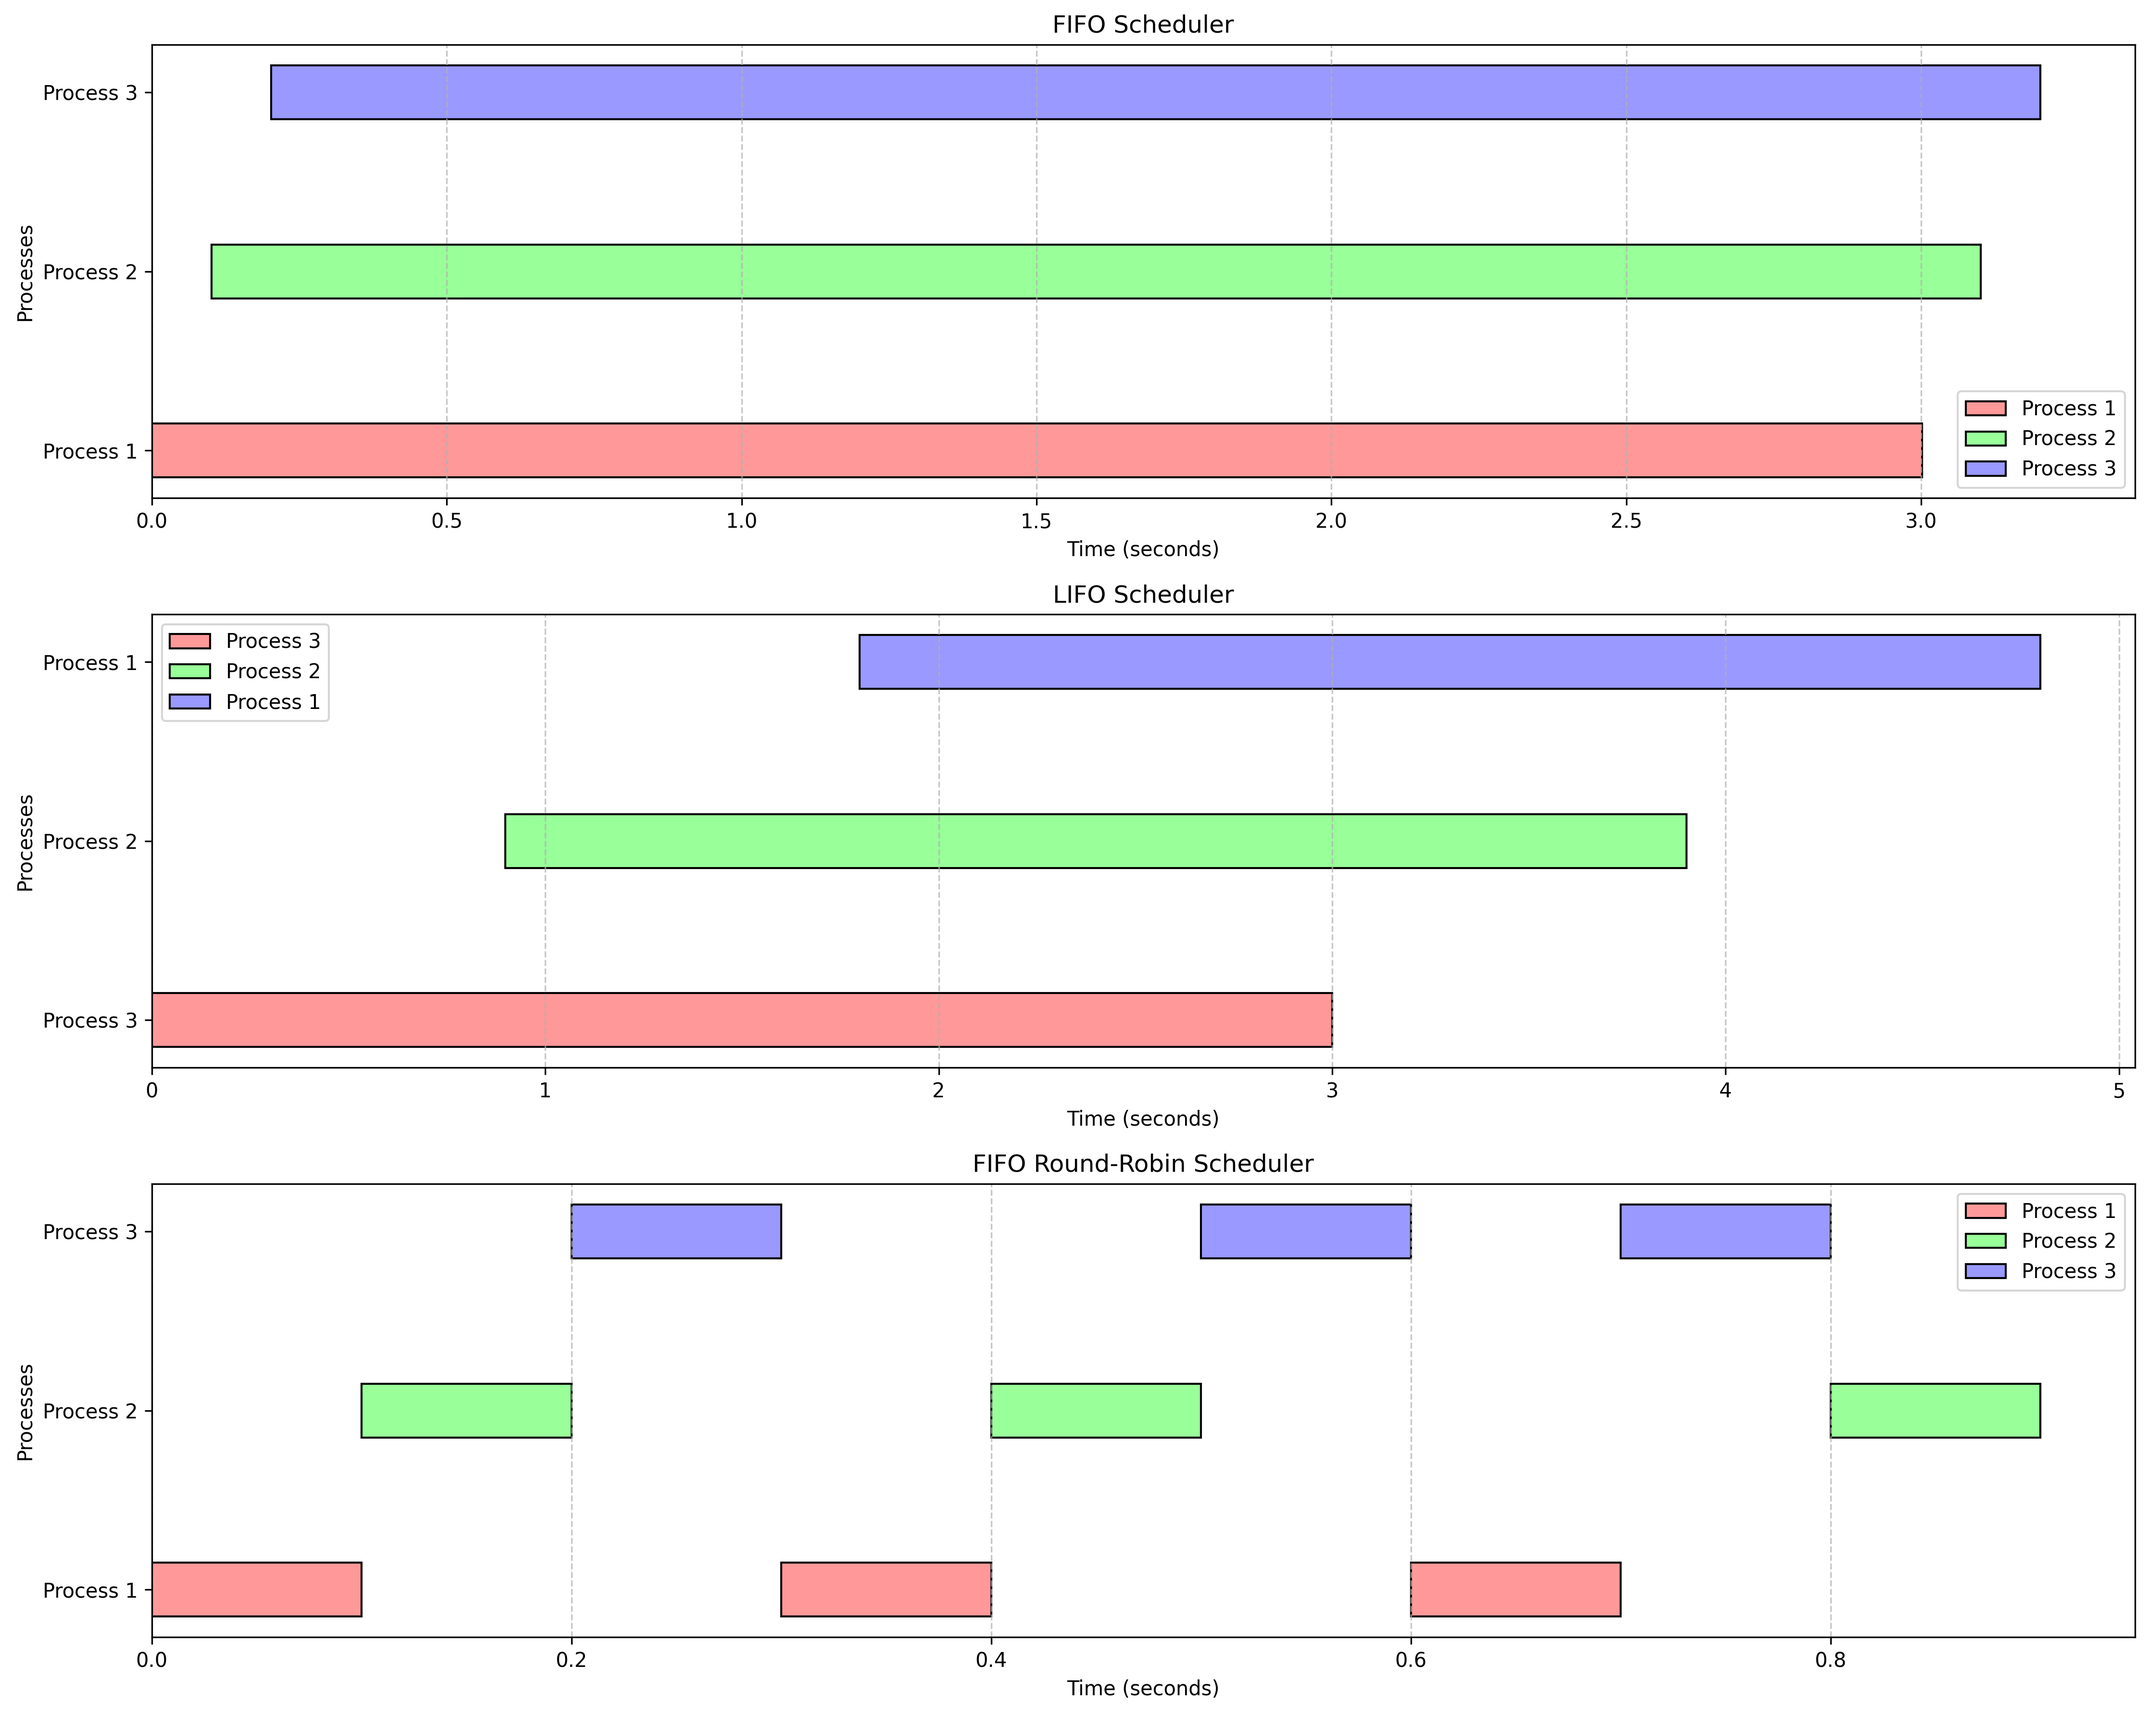
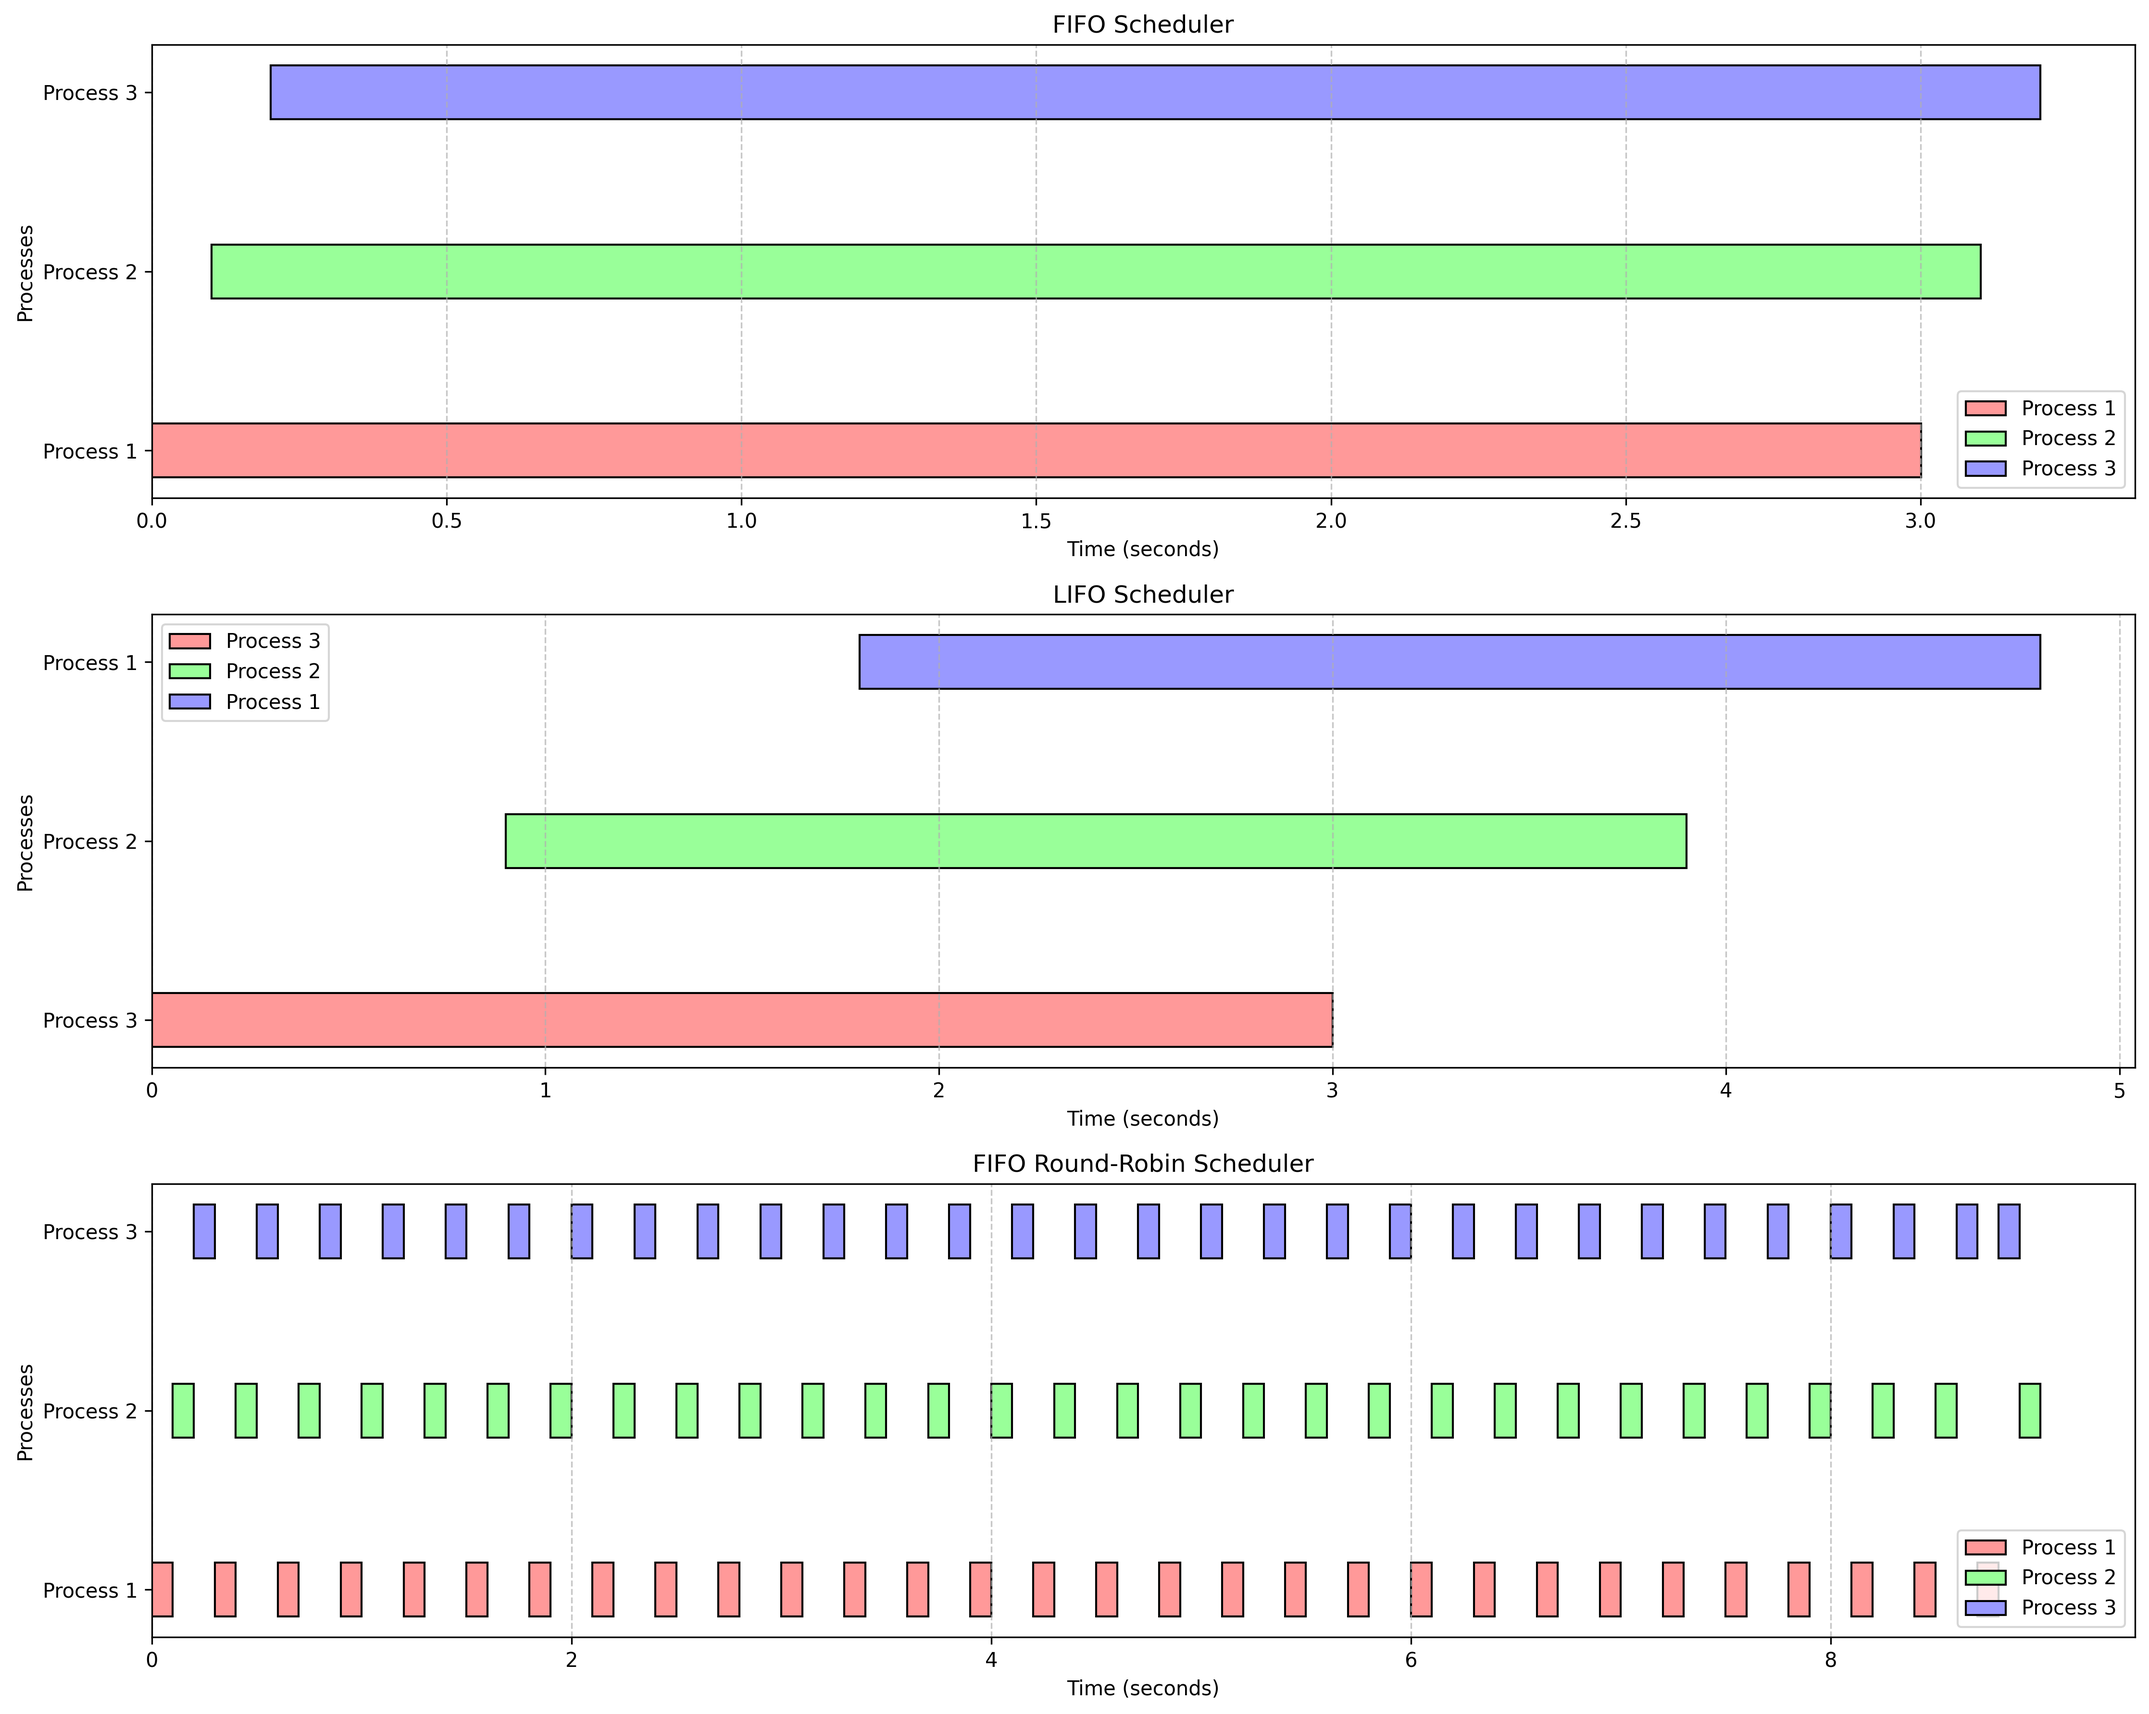
updated roundrobin code with latest results

diff --git a/fifo_rr_scheduler.c b/fifo_rr_scheduler.c
@@ -6,7 +6,7 @@
 #include <sys/wait.h>
 #include <sys/time.h>
 
-#define TIME_QUANTUM 100 // Time quantum in milliseconds
+#define TIME_QUANTUM 100  // Time quantum in milliseconds
 #define MAX_PROCESSES 10
 
 typedef struct {
@@ -19,39 +19,45 @@ int process_count = 0;
 int current_process = 0;
 struct itimerval timer;
 
-// Signal handler for timer
+// Signal handler for the timer
 void timer_handler(int signum) {
     if (process_count == 0) return;
 
-    // Reduce the remaining time of the current process
+    // Reduce remaining time of the current process
     process_queue[current_process].remaining_time -= TIME_QUANTUM;
 
-    // If process still has remaining time, move to the next process
     if (process_queue[current_process].remaining_time > 0) {
+        // Pause the current process
         if (kill(process_queue[current_process].pid, SIGSTOP) == 0) {
             printf("Process %d (PID=%d) paused, remaining time: %d ms\n", 
                 current_process + 1, process_queue[current_process].pid, 
                 process_queue[current_process].remaining_time);
         }
     } else {
-        // Process completed, remove it from queue
+        // Process completed
         printf("Process %d (PID=%d) finished execution.\n", 
             current_process + 1, process_queue[current_process].pid);
         kill(process_queue[current_process].pid, SIGKILL);
-        
-        // Shift remaining processes forward in queue
+        waitpid(process_queue[current_process].pid, NULL, 0);
+
+        // Shift remaining processes in the queue
         for (int i = current_process; i < process_count - 1; i++) {
             process_queue[i] = process_queue[i + 1];
         }
         process_count--;
-        
-        // If no processes left, stop the timer
+
+        // If all processes finished, stop the timer
         if (process_count == 0) {
             printf("All processes completed.\n");
             timer.it_value.tv_sec = 0;
             timer.it_value.tv_usec = 0;
             setitimer(ITIMER_REAL, &timer, NULL);
             return;
+        }
+
+        // Adjust index to avoid out-of-bounds access
+        if (current_process >= process_count) {
+            current_process = 0;
         }
     }
 
@@ -66,10 +72,14 @@ void timer_handler(int signum) {
     }
 }
 
-// Function to set up Round-Robin timer
+// Function to set up the Round-Robin timer
 void setup_timer() {
-    signal(SIGALRM, timer_handler);
-    
+    struct sigaction sa;
+    sa.sa_handler = timer_handler;
+    sigemptyset(&sa.sa_mask);
+    sa.sa_flags = SA_RESTART;
+    sigaction(SIGALRM, &sa, NULL);
+
     timer.it_value.tv_sec = 0;
     timer.it_value.tv_usec = TIME_QUANTUM * 1000;
     timer.it_interval.tv_sec = 0;
@@ -78,7 +88,7 @@ void setup_timer() {
     setitimer(ITIMER_REAL, &timer, NULL);
 }
 
-int main(int argc, char *argv[]) {
+int main() {
     printf("Starting FIFO Round-Robin Scheduler...\n");
 
     // Simulating process execution
@@ -92,7 +102,7 @@ int main(int argc, char *argv[]) {
         } else if (pid > 0) {
             // Parent process: Store process info
             process_queue[process_count].pid = pid;
-            process_queue[process_count].remaining_time = 300; // Simulated total runtime
+            process_queue[process_count].remaining_time = 3000; // Simulated total runtime
             process_count++;
         } else {
             perror("Fork failed");
@@ -103,15 +113,15 @@ int main(int argc, char *argv[]) {
     // Set up Round-Robin scheduling
     setup_timer();
 
-    // Allow processes to run initially
+    // Allow the first process to run
     if (process_count > 0) {
         kill(process_queue[0].pid, SIGCONT);
         printf("Process 1 (PID=%d) started first.\n", process_queue[0].pid);
     }
 
     // Wait for all processes to finish
-    for (int i = 0; i < process_count; i++) {
-        waitpid(process_queue[i].pid, NULL, 0);
+    while (process_count > 0) {
+        pause(); // Wait for timer signals
     }
 
     printf("All processes completed.\n");
